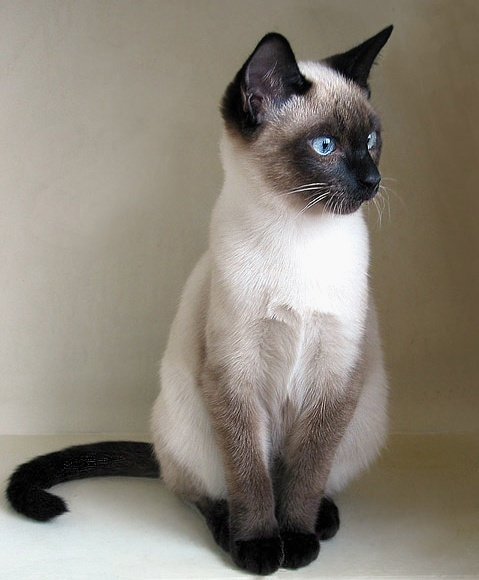
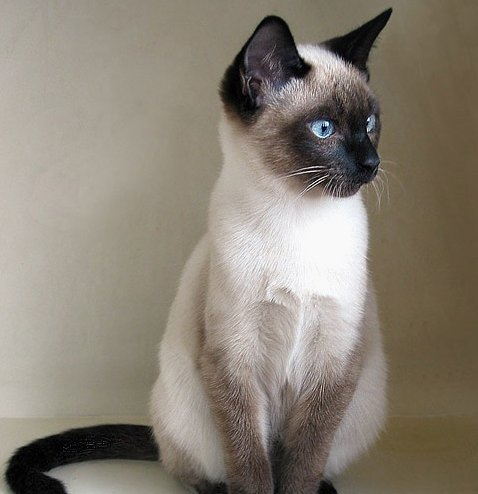
update image, fix alignment of header, footer, main block, cats photo

diff --git a/3-html_css_features/3_1_cats_gallery/style_week3.css b/3-html_css_features/3_1_cats_gallery/style_week3.css
@@ -12,41 +12,18 @@ body {
 	font-family: Times New Roman, serif, sans-serif;
 	box-sizing: border-box;
 	background-color: #ececec;
-	flex-direction: column;
-
 	position: relative;
+	display: flex;
+	flex-direction: column;
+	align-items: center;
 }
 
 /* --- Шапка --- */
 header {
-	border-bottom: 1px solid black;
 	padding: 20px;
 }
 
-h1 {
-	text-align: center;
-}
-
-/* --- Основной блок --- */
-aside {
-	background-color: #ddd;
-	position: absolute;
-	right: 0;
-	width: 200px;
-	height: 400px;
-	margin: 10px;
-}
-
-.rating {
-	color: #f00;
-	text-align: center;
-}
-
-.descending-checkbox {
-	position: absolute;
-	right: 0;
-	padding: 0 10px;
-}
+h1 { text-align: center; }
 
 /* --- Подвал --- */
 footer {
@@ -54,11 +31,67 @@ footer {
 	justify-content: space-between;
 	align-items: center;
 
-	position: absolute; /* fix footer in the bottom of page */
-	bottom: 0;
-
 	box-sizing: border-box;
 	width: 100%;
 	padding: 10px;
 	border-top: 1px solid black;
+}
+
+.address { color: #00f; }
+
+/* --- Основной блок --- */
+main {
+	max-width: 1200px;
+	flex: 1;
+
+	display: grid;
+	grid-template-areas: "menu cat1 cat2 cat2 aside"
+						 ".    cat3 cat4 cat5 aside"
+						 ".    cat6 cat6 cat7 aside"
+						 ".    cat8 cat8 cat8 aside";
+
+}
+
+/* --- Карточки кошек --- */
+.menu-cats {
+	grid-area: menu;
+	width: 200px;
+	background-color: #ddd;
+}
+
+.cat-1 { grid-area: cat1; }
+.cat-2 { grid-area: cat2; }
+.cat-3 { grid-area: cat3; }
+.cat-4 { grid-area: cat4; }
+.cat-5 { grid-area: cat5; }
+.cat-6 { grid-area: cat6; }
+.cat-7 { grid-area: cat7; }
+.cat-8 { grid-area: cat8; }
+
+.cat {
+	display: flex;
+	justify-content: center;	
+}
+
+.cat img {
+	max-height: 200px;
+	padding: 2px
+}
+
+/* --- Блок рейтинга --- */
+aside {
+	grid-area: aside;
+	background-color: #ddd;
+	align-self: flex-start;
+	width: 200px;
+}
+
+.rating {
+	color: #f00;
+	text-align: center;
+	padding: 10px;
+}
+
+.descending-checkbox {
+	padding: 0 10px 10px 60px;
 }

diff --git a/3-html_css_features/3_1_cats_gallery/index_week3.html b/3-html_css_features/3_1_cats_gallery/index_week3.html
@@ -10,20 +10,27 @@
 		<h1>Бабуленькины котятки</h1>
 	</header>
 	<main>
-		<article>
-
-
-		</article>
-
+		<div class="menu-cats">
+			<!--<input type="button">
+			<input type="button">
+			<input type="button">
+			<input type="button">-->
+		</div>			
+		<div class="cat cat-1"><img src="img/siam.jpg" alt="img not found"></div>
+		<div class="cat cat-2"><img src="img/britanskaya-koshka-3.jpg" alt="img not found"></div>
+		<div class="cat cat-3"><img src="img/britanskaya-koshka-1.jpg" alt="img not found"></div>
+		<div class="cat cat-4"><img src="img/britanskaya-koshka-2.jpg" alt="img not found"></div>
+		<div class="cat cat-5"><img src="img/rus-blue.jpg" alt="img not found"></div>
+		<div class="cat cat-6"><img src="img/2-Сиамская порода кошек.jpg" alt="img not found"></div>
+		<div class="cat cat-7"><img src="img/37502167.jpg" alt="img not found"></div>
+		<div class="cat cat-8"><img src="img/abissinskaya-koshka.jpg" alt="img not found"></div>
 		<aside>
 			<h3 class="rating">РЕЙТИНГ</h3>
 			<div class="descending-checkbox">
 				<input type="checkbox" name="descending" id="descending">
 				<label for="descending">по убыванию</label>
 			</div>
-			
-		</aside>
-
+		</aside>			
 	</main>
 	<footer>
 		<div class="company-name">&copy; ООО Бабуленькины котятки, 2015</div>
